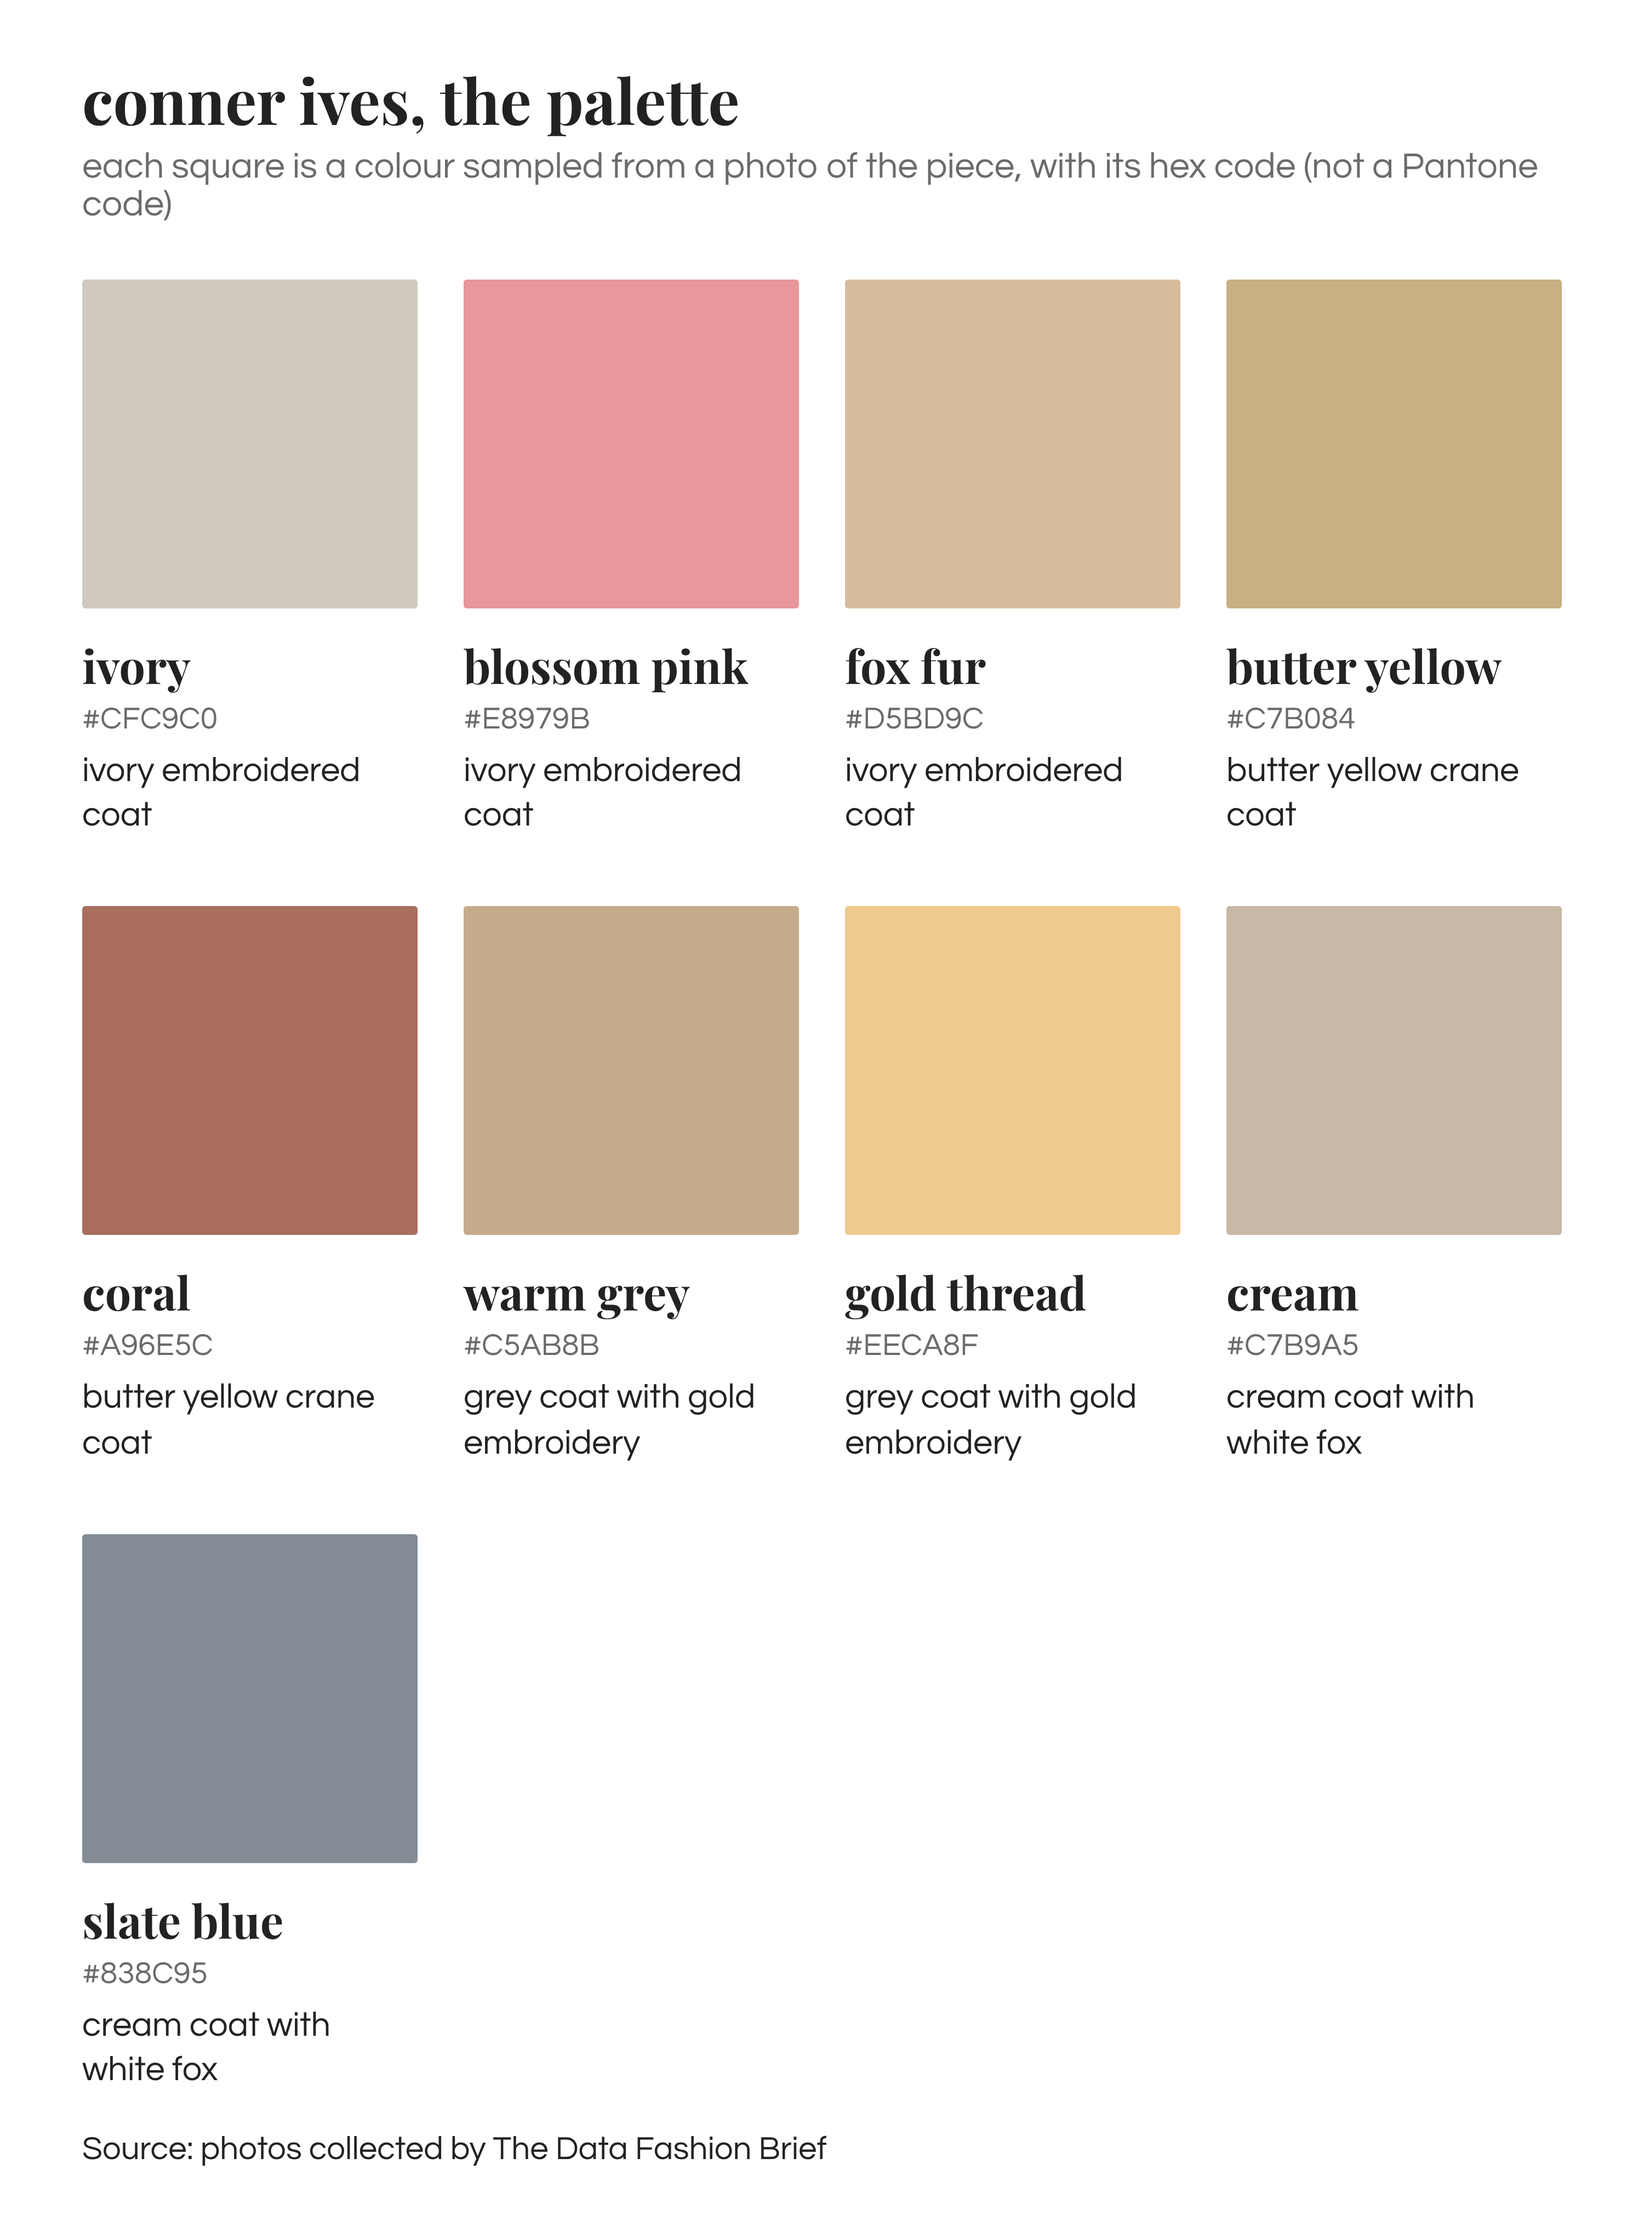
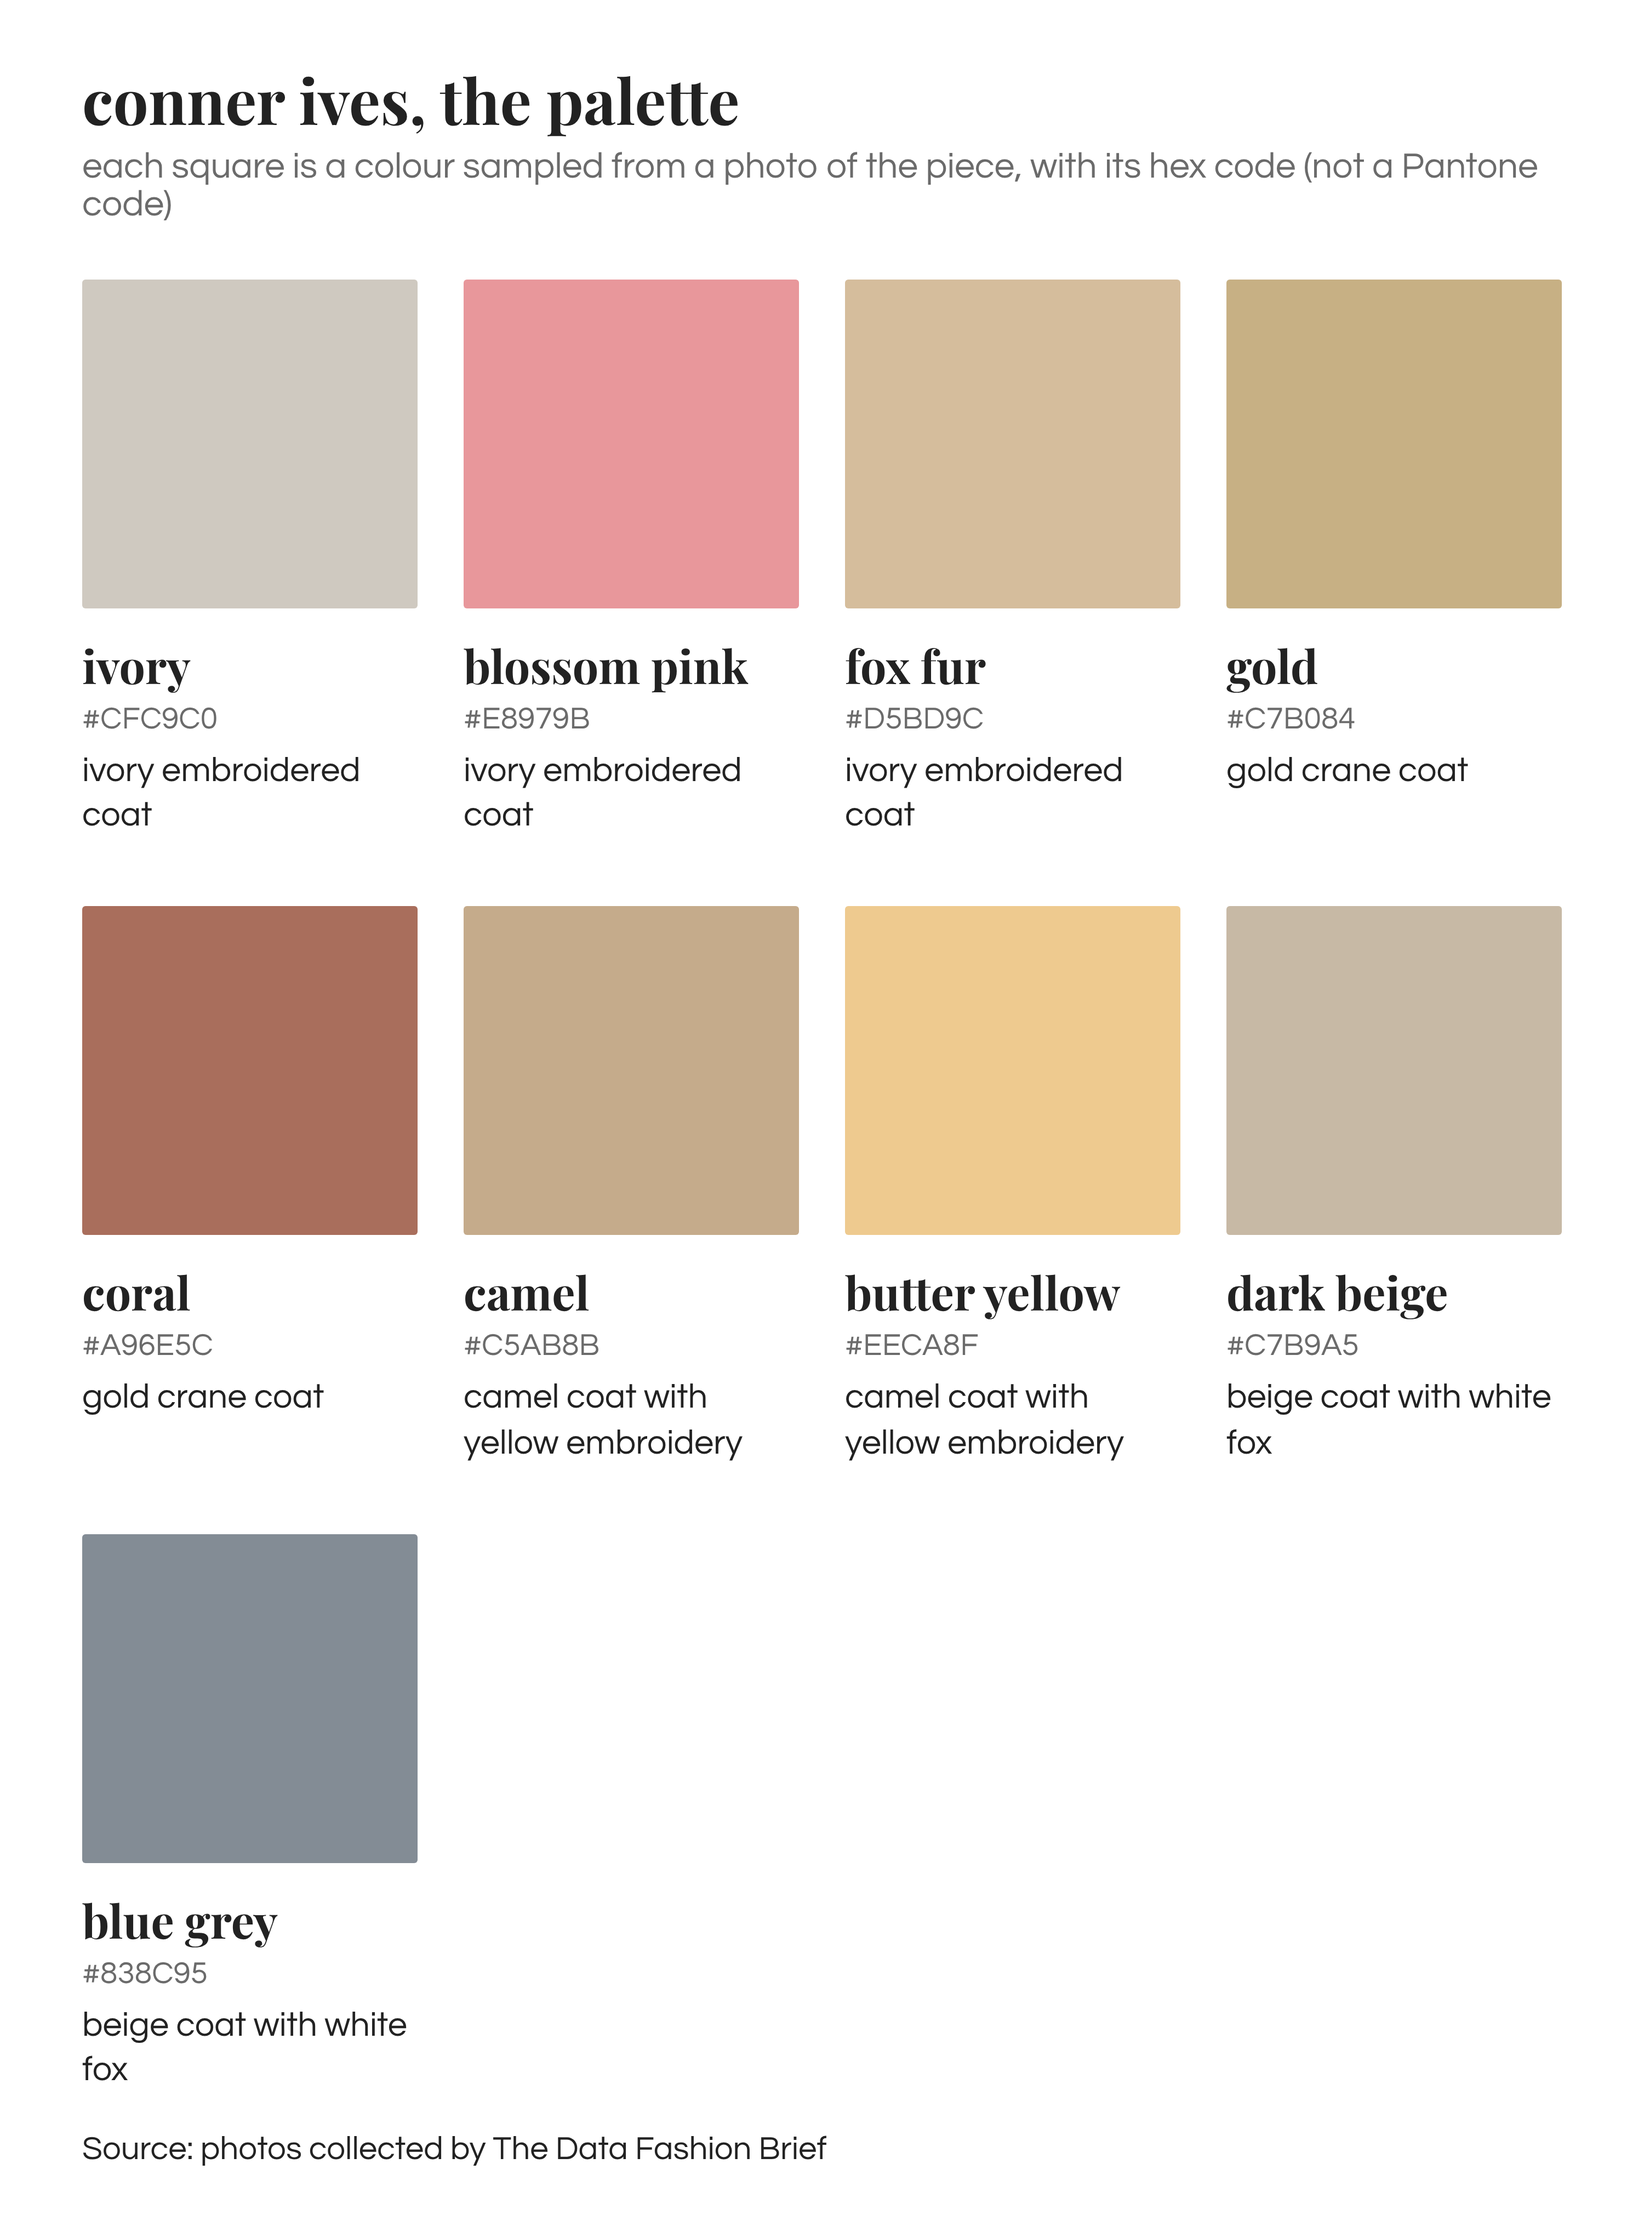
Rename five Conner Ives palette colours
Claude-Session: https://claude.ai/code/session_01N7aeZbadov81bhy2nkWngq

diff --git a/drafts/chinese-jacket-charts/sample_all.py b/drafts/chinese-jacket-charts/sample_all.py
@@ -11,15 +11,15 @@ L = [
    ("Ivory", "conner-ives-1", (.72,.62,.9,.75), *WHITE),
    ("Blossom Pink", "conner-ives-1", (.1,.55,.95,1), "-30,10", "0.25,1", "0.6,1"),
    ("Fox Fur", "conner-ives-1", (.38,.4,.62,.6), "20,50", "0.1,0.5", "0.5,1")]),
- ("02-conner-ives-butter-coat", "CONNER IVES", "Butter yellow crane coat", [
-   ("Butter Yellow", "conner-ives-4", (.2,.2,.85,.95), "38,65", "0.18,0.7", "0.6,1"),
+ ("02-conner-ives-gold-coat", "CONNER IVES", "Gold crane coat", [
+   ("Gold", "conner-ives-4", (.2,.2,.85,.95), "38,65", "0.18,0.7", "0.6,1"),
    ("Coral", "conner-ives-4", (.28,.3,.6,.68), "-20,20", "0.3,1", "0.55,1")]),
- ("03-conner-ives-grey-coat", "CONNER IVES", "Grey coat with gold embroidery", [
-   ("Warm Grey", "conner-ives-3", (.72,.42,.78,.85), "0,360", "0,0.4", "0.5,1"),
-   ("Gold Thread", "conner-ives-3", (.24,.27,.4,.42), "35,60", "0.3,1", "0.6,1")]),
- ("04-conner-ives-cream-coat", "CONNER IVES", "Cream coat with white fox", [
-   ("Cream", "conner-ives-5", (.44,.72,.58,.92), "25,60", "0.08,0.5", "0.6,1"),
-   ("Slate Blue", "conner-ives-5", (.56,.25,.74,.65), "180,250", "0.08,1", "0.5,0.98")]),
+ ("03-conner-ives-camel-coat", "CONNER IVES", "Camel coat with yellow embroidery", [
+   ("Camel", "conner-ives-3", (.72,.42,.78,.85), "0,360", "0,0.4", "0.5,1"),
+   ("Butter Yellow", "conner-ives-3", (.24,.27,.4,.42), "35,60", "0.3,1", "0.6,1")]),
+ ("04-conner-ives-beige-coat", "CONNER IVES", "Beige coat with white fox", [
+   ("Dark Beige", "conner-ives-5", (.44,.72,.58,.92), "25,60", "0.08,0.5", "0.6,1"),
+   ("Blue Grey", "conner-ives-5", (.56,.25,.74,.65), "180,250", "0.08,1", "0.5,0.98")]),
  ("05-the-garment", "THE GARMENT SS27", "Mandarin collar jacket", [("Off-White", "the-garment", (.44,.26,.6,.44), *WHITE)]),
  ("06-christian-cowan", "CHRISTIAN COWAN SS27", "Cropped jacket, frog closures", [
    ("Off-White", "cowan", (.33,.24,.43,.4), "0,360", "0,0.2", "0.6,1"),

diff --git a/drafts/asian-inspired-jacket-draft.md b/drafts/asian-inspired-jacket-draft.md
@@ -2,7 +2,7 @@
 
 *Mandarin collars, frog closures and embroidered satin were all over the SS27 runways, so I looked at where the look comes from, why it is back and whether it will last.*
 
-There is one kind of jacket I keep seeing, and once you notice it you cannot stop. The pieces I see most are Conner Ives's satin coats, embroidered with cranes, wisteria and blossom and trimmed in fur, in ivory, butter yellow and cream.
+There is one kind of jacket I keep seeing, and once you notice it you cannot stop. The pieces I see most are Conner Ives's satin coats, embroidered with cranes, wisteria and blossom and trimmed in fur, in ivory, gold and beige.
 
 Then the SS27 runways did their own version. Ralph Lauren showed an ivory jacquard cutaway with a mandarin collar, Christian Cowan cropped it in off-white with a black high collar and cord frog closures, The Garment made a soft off-white version with the same closures, and Elie Saab did it in olive with floral embroidery. It is not only China either, because Alberta Ferretti's version comes with kimono-style sleeves, so the reference is East Asian dress more broadly.
 
